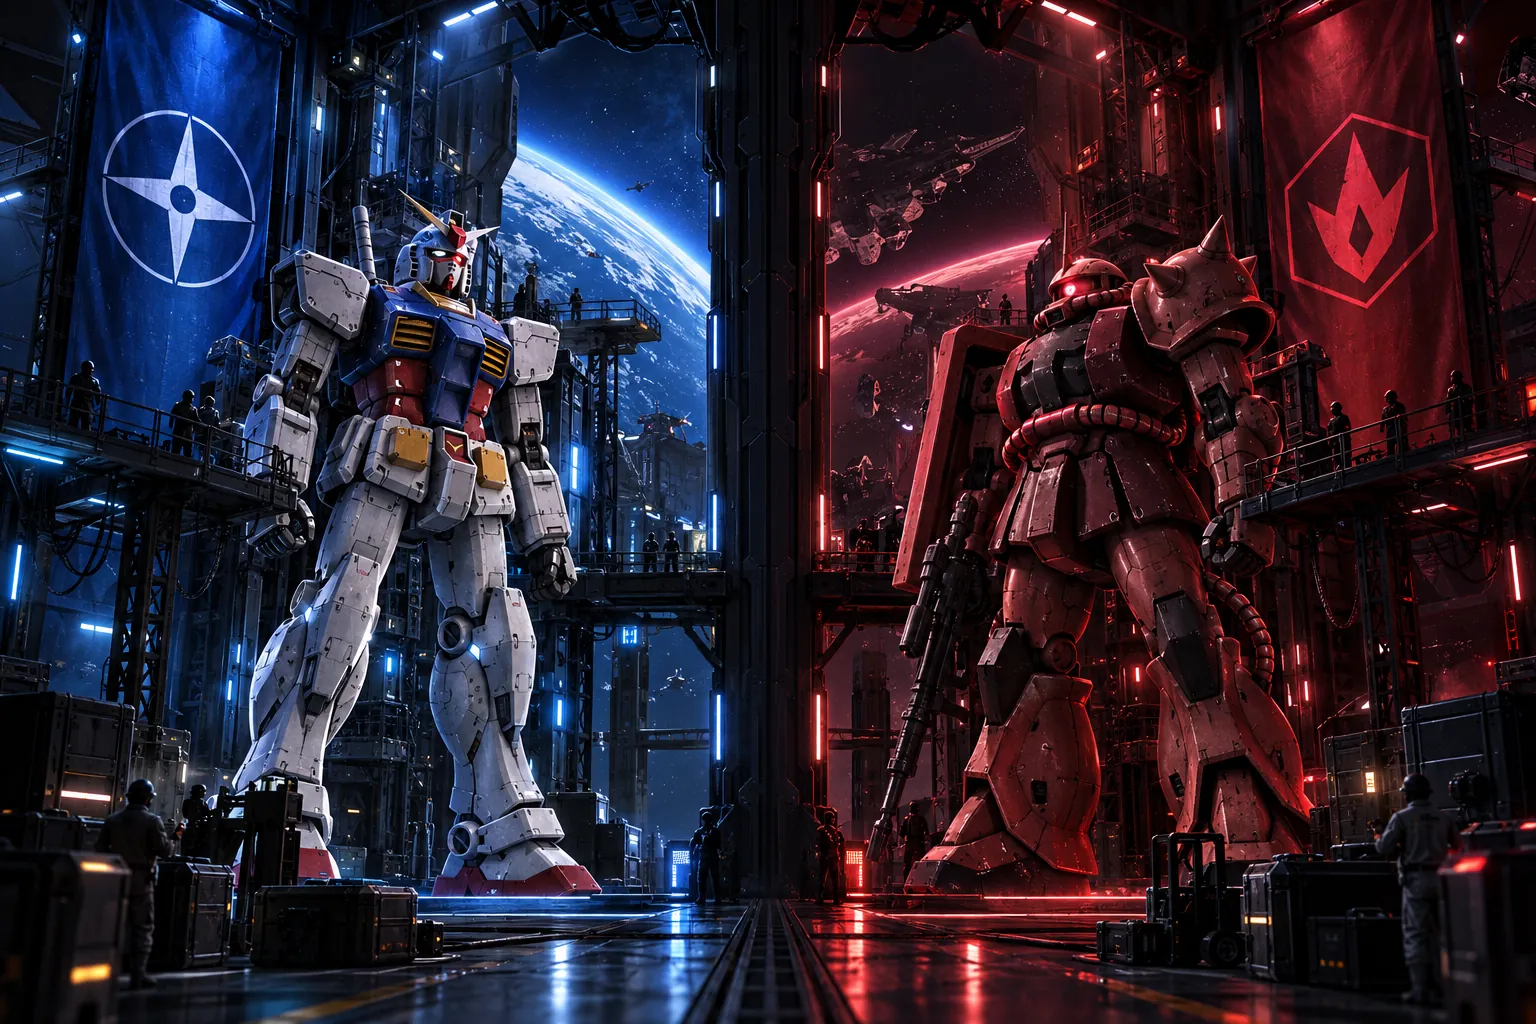
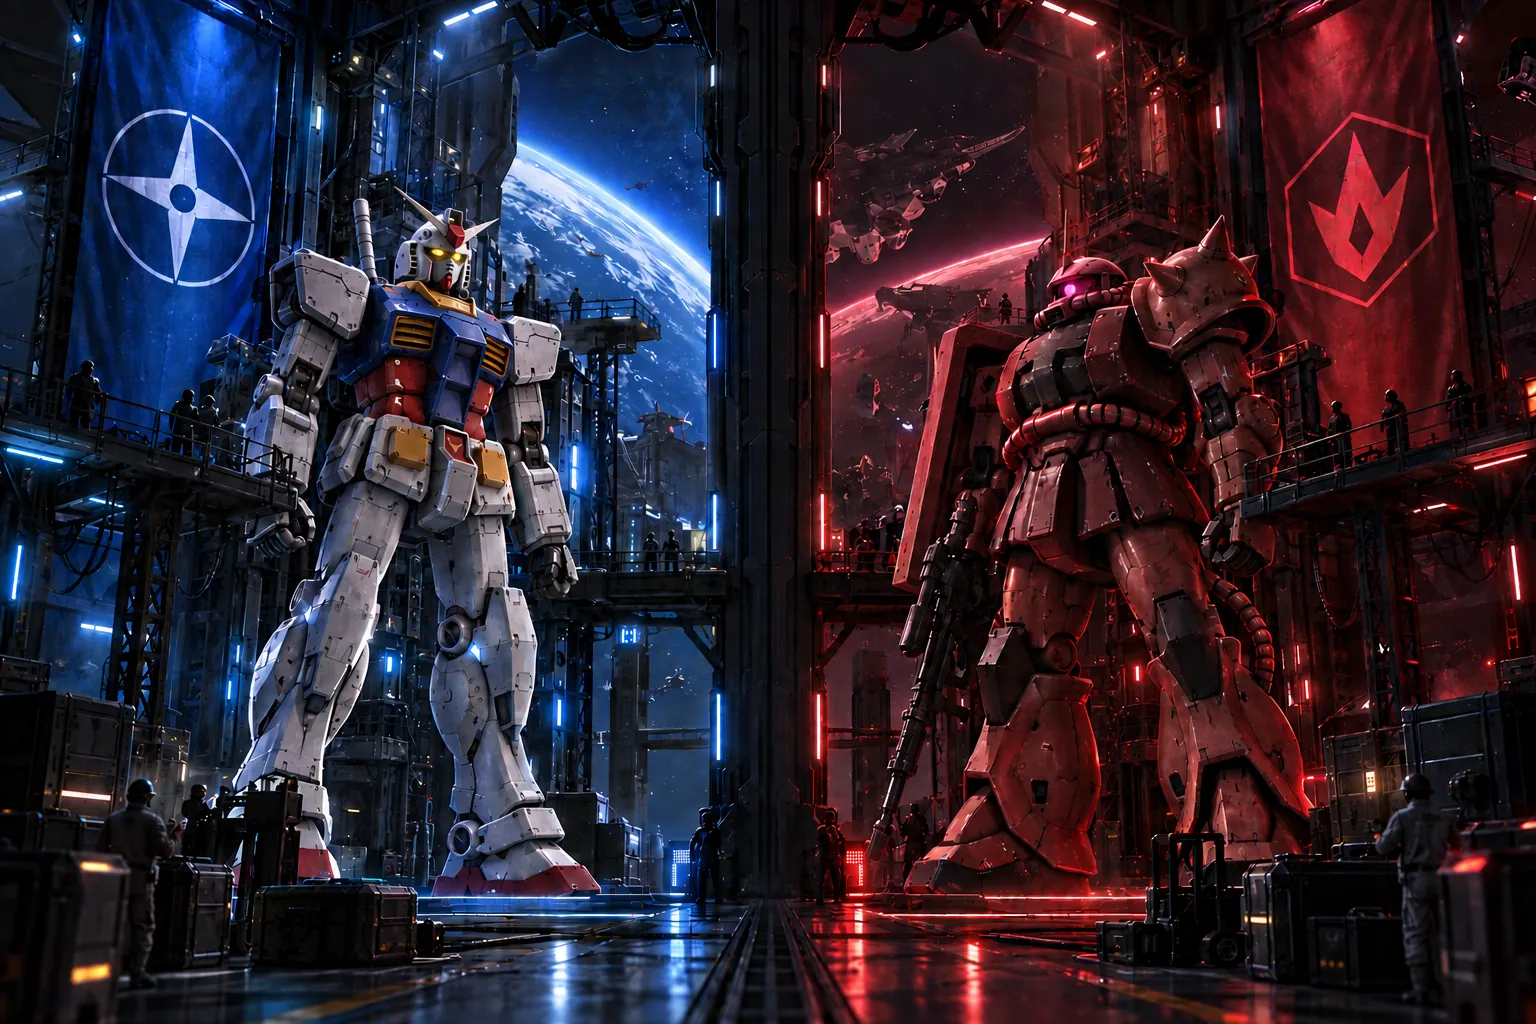
Add files via upload

diff --git a/public/index.html b/public/index.html
@@ -1786,7 +1786,7 @@ body.spa .shipcard.spa .sc-class{color:#e2b04a}
 .lb-team{padding-top:10px}
 
 /* ================= LOBBY ON THE TWO-HANGAR ART (cf18) ================= */
-#mpLobby.lb2wrap{width:100%;max-width:none;min-height:100vh;min-height:100dvh;padding:clamp(10px,2vh,20px) clamp(10px,2vw,28px) clamp(10px,2vh,18px);gap:0;justify-content:space-between}
+#mpLobby.lb2wrap{width:100%;max-width:none;min-height:calc(100vh - 28px);min-height:calc(100dvh - 28px);padding:clamp(10px,2vh,20px) clamp(10px,2vw,28px) clamp(10px,2vh,18px);gap:0;justify-content:space-between}
 .lb2-top{display:flex;flex-direction:column;align-items:center;gap:4px;padding:8px 18px 10px;
   background:radial-gradient(ellipse at center,rgba(2,4,8,.78),rgba(2,4,8,.35) 60%,transparent 75%)}
 .lb2-top .cwstep{font-size:11px;font-weight:900;letter-spacing:.3em;color:#e2e8f0}
@@ -1838,6 +1838,89 @@ body.spa .shipcard.spa .sc-class{color:#e2b04a}
 @media (max-height:520px) and (orientation:landscape){
   .lb2-sides{padding-top:8px;min-height:0}
   .lb2-sides .fcard.lb-card{height:64px}
+}
+
+/* ================= LOBBY PASS 2 (cf19): centred dock, VS pillar, team-pick animation ================= */
+.lb2-sides{padding-top:clamp(6px,3vh,40px)}
+.lb2-top{padding-top:2px;padding-bottom:4px}
+.lb2-dock{padding-top:6px}
+.lb2-ctl{gap:8px}
+.lb2-ctl .lb-chips .chip{padding-left:12px;padding-right:12px}
+.lb2-mid{display:flex;align-items:flex-end;justify-content:center;padding-bottom:clamp(20px,6vh,70px)}
+.lb2-vs{display:flex;align-items:center;gap:clamp(6px,.9vw,12px);padding:8px 14px;background:rgba(2,4,8,.72);border:1px solid rgba(255,255,255,.18);
+  clip-path:polygon(10px 0,calc(100% - 10px) 0,100% 50%,calc(100% - 10px) 100%,10px 100%,0 50%);backdrop-filter:blur(6px);-webkit-backdrop-filter:blur(6px)}
+.lb2-vs b{font:900 clamp(18px,2.6vw,34px)/1 system-ui,sans-serif;letter-spacing:.06em;
+  background:linear-gradient(90deg,#7dd3fc,#fff 50%,#ff6b76);-webkit-background-clip:text;background-clip:text;color:transparent;
+  filter:drop-shadow(0 0 8px rgba(255,255,255,.35));animation:vsPulse 2.4s ease-in-out infinite}
+.lb2-vs span{font:900 clamp(13px,1.5vw,20px)/1 system-ui,sans-serif;min-width:1.2em;text-align:center}
+.lb2-vs .vs-f{color:#7dd3fc;text-shadow:0 0 10px rgba(56,189,248,.8)}
+.lb2-vs .vs-s{color:#ff6b76;text-shadow:0 0 10px rgba(255,77,90,.8)}
+@keyframes vsPulse{0%,100%{filter:drop-shadow(0 0 6px rgba(255,255,255,.25))}50%{filter:drop-shadow(0 0 16px rgba(255,255,255,.6))}}
+/* panels: idle scan line, hover lift, lock-on when picked */
+.lb2-sides .lb-team:before{content:"";position:absolute;left:0;right:0;top:-30%;height:30%;pointer-events:none;z-index:3;
+  background:linear-gradient(180deg,transparent,rgba(255,255,255,.06),transparent);animation:lbScan 5.5s linear infinite}
+.lb2-sides .lb-team.spa:before{animation-delay:-2.7s}
+@keyframes lbScan{from{top:-30%}to{top:130%}}
+.lb2-sides .lb-team:has(.lb-card:not(.nopick)):hover{transform:translateY(-3px)}
+.lb2-sides .lb-team:after{content:"";position:absolute;inset:6px;pointer-events:none;z-index:4;opacity:0;
+  background:
+    linear-gradient(var(--lk),var(--lk)) left top/22px 2px no-repeat,linear-gradient(var(--lk),var(--lk)) left top/2px 22px no-repeat,
+    linear-gradient(var(--lk),var(--lk)) right top/22px 2px no-repeat,linear-gradient(var(--lk),var(--lk)) right top/2px 22px no-repeat,
+    linear-gradient(var(--lk),var(--lk)) left bottom/22px 2px no-repeat,linear-gradient(var(--lk),var(--lk)) left bottom/2px 22px no-repeat,
+    linear-gradient(var(--lk),var(--lk)) right bottom/22px 2px no-repeat,linear-gradient(var(--lk),var(--lk)) right bottom/2px 22px no-repeat}
+.lb2-sides .lb-team.fed{--lk:#7dd3fc}.lb2-sides .lb-team.spa{--lk:#ff6b76}
+.lb2-sides .lb-team.mine:after{opacity:.9}
+.lb2-sides .lb-team.lockon{animation:lockPop .7s cubic-bezier(.2,.9,.3,1.2)}
+.lb2-sides .lb-team.lockon:after{animation:lockIn .6s cubic-bezier(.2,.8,.3,1) both}
+.lb2-sides .lb-team.lockon:before{animation:lbScanFast .7s ease-out 1;background:linear-gradient(180deg,transparent,var(--lk),transparent);opacity:.45}
+@keyframes lockPop{0%{transform:scale(.96)}45%{transform:scale(1.035)}100%{transform:scale(1)}}
+@keyframes lockIn{0%{inset:-18px;opacity:0}60%{opacity:1}100%{inset:6px;opacity:.9}}
+@keyframes lbScanFast{from{top:-30%}to{top:130%}}
+/* the full-screen moment */
+#teamFx{position:fixed;inset:0;z-index:380;pointer-events:none;display:none;overflow:hidden}
+#teamFx.on{display:block}
+#teamFx .tf-sweep{position:absolute;top:0;bottom:0;width:60%;left:-60%;opacity:0}
+#teamFx.fed .tf-sweep{background:linear-gradient(90deg,transparent,rgba(56,189,248,.55),rgba(186,230,253,.9) 55%,transparent);animation:tfSweepR .9s cubic-bezier(.4,0,.2,1) forwards}
+#teamFx.spa .tf-sweep{left:auto;right:-60%;background:linear-gradient(270deg,transparent,rgba(255,77,90,.55),rgba(254,205,211,.9) 55%,transparent);animation:tfSweepL .9s cubic-bezier(.4,0,.2,1) forwards}
+@keyframes tfSweepR{0%{left:-60%;opacity:0}15%{opacity:1}100%{left:110%;opacity:0}}
+@keyframes tfSweepL{0%{right:-60%;opacity:0}15%{opacity:1}100%{right:110%;opacity:0}}
+#teamFx .tf-band{position:absolute;left:0;right:0;top:50%;transform:translateY(-50%);display:flex;flex-direction:column;align-items:center;gap:6px;
+  padding:clamp(14px,3vh,26px) 10px;opacity:0;animation:tfBand 1.8s cubic-bezier(.2,.8,.3,1) .12s forwards}
+#teamFx.fed .tf-band{background:linear-gradient(90deg,transparent,rgba(3,20,40,.88) 20%,rgba(3,20,40,.88) 80%,transparent);border-top:1px solid rgba(56,189,248,.6);border-bottom:1px solid rgba(56,189,248,.6)}
+#teamFx.spa .tf-band{background:linear-gradient(90deg,transparent,rgba(40,3,8,.88) 20%,rgba(40,3,8,.88) 80%,transparent);border-top:1px solid rgba(255,77,90,.6);border-bottom:1px solid rgba(255,77,90,.6)}
+#teamFx .tf-band b{font:900 clamp(34px,7vw,90px)/1 system-ui,sans-serif;letter-spacing:.22em;color:#fff}
+#teamFx.fed .tf-band b{text-shadow:0 0 24px rgba(56,189,248,.9),0 0 60px rgba(56,189,248,.5)}
+#teamFx.spa .tf-band b{text-shadow:0 0 24px rgba(255,77,90,.9),0 0 60px rgba(255,77,90,.5)}
+#teamFx .tf-band span{font:800 clamp(10px,1.3vw,15px) system-ui,sans-serif;letter-spacing:.36em;color:#e2e8f0}
+@keyframes tfBand{0%{opacity:0;transform:translateY(-50%) scaleY(.1) scaleX(1.3);letter-spacing:.6em}
+  18%{opacity:1;transform:translateY(-50%) scaleY(1) scaleX(1)}
+  70%{opacity:1;transform:translateY(-50%) scale(1)}
+  100%{opacity:0;transform:translateY(-50%) scale(1.04)}}
+@media (prefers-reduced-motion:reduce){
+  #teamFx .tf-sweep{display:none}
+  #teamFx .tf-band{animation:tfFade 1.6s ease forwards}
+  @keyframes tfFade{0%,100%{opacity:0}15%,70%{opacity:1}}
+  .lb2-sides .lb-team:before,.lb2-vs b{animation:none}
+  .lb2-sides .lb-team.lockon,.lb2-sides .lb-team.lockon:after{animation:none}
+}
+/* the dock: one centred column */
+.lb2-dock{align-items:center;text-align:center}
+.lb2-ctl{flex-direction:column;align-items:center;flex-wrap:nowrap;gap:10px;width:min(100%,780px);margin:0 auto}
+.lb2-ctl .lb-me{flex:none;width:min(100%,440px);min-width:0;margin:0 auto}
+.lb2-ctl .lb-me .cws{margin:0;padding:10px 14px;background:rgba(2,4,8,.6);border:1px dashed rgba(203,213,225,.35);color:#e2e8f0}
+.lb2-ctl .lb-host{flex:none;width:100%;display:grid;grid-template-columns:3fr 2fr;gap:8px 18px;align-items:start;justify-items:center;padding:10px 16px 12px;
+  border:1px solid var(--acc-line);box-shadow:inset 0 0 0 1px rgba(255,255,255,.04),0 10px 30px rgba(0,0,0,.45)}
+.lb2-ctl .lb-host > .lb-hh,.lb2-ctl .lb-host > .btn,.lb2-ctl .lb-host > .mpmsg,.lb2-ctl .lb-host > p{grid-column:1/-1;margin:0}
+.lb2-ctl .lb-host > .btn{width:min(100%,460px)}
+.lb2-ctl .lb-row{flex-direction:column;justify-content:flex-start;align-items:center;gap:6px;width:100%}
+.lb2-ctl .lb-row > span{font:800 10px system-ui,sans-serif;letter-spacing:.2em;text-transform:uppercase;color:var(--muted)}
+.lb2-ctl .lb-chips{justify-content:center}
+.lb2-dock .lb-un{text-align:center}
+@media (max-width:760px){
+  .lb2-ctl .lb-host{grid-template-columns:1fr}
+  .lb2-mid{display:flex;padding:0}
+  .lb2-sides{grid-template-columns:1fr}
+  .lb2-sides > .lb2-mid{order:0}
 }
 /* ================= MAIN MENU ================= */
 #s1{padding:0;position:relative;min-height:100vh;min-height:100dvh;overflow:hidden;color:#eaf3ff;background:#04060a;
@@ -8909,7 +8992,7 @@ function renderLobby() {
     const emb = document.querySelector(t === "federation" ? "#fcFed .fc-emb" : "#fcSpa .fc-emb");
     const canPick = !mineT && (!battle || (me && !me.team));
     const lead = mp.leaders[t] && mp.data["player/" + mp.leaders[t]];
-    return '<div class="lb-team ' + cls + (mineT ? " mine" : "") + '">' +
+    return '<div class="lb-team ' + cls + (mineT ? " mine" : "") + (mineT && mp.lockUntil > Date.now() ? " lockon" : "") + '">' +
       '<div class="fcard lb-card ' + cls + (mineT ? ' sel' : '') + (canPick ? '' : ' nopick') + '"' + (canPick ? ' onclick="mpPickTeam(\'' + t + '\')"' : '') + '>' +
         '<div class="fc-in">' + (emb ? emb.outerHTML : '') +
           '<div class="fc-txt"><b>' + (t === "federation" ? "FEDERATION" : "SPACENOIDS") + '</b>' +
@@ -8965,13 +9048,30 @@ function renderLobby() {
     '<div class="lb2-top"><div class="cwstep">SESSION</div>' +
       '<div class="mpcode">' + mp.code.split("").map(c => '<span>' + c + '</span>').join("") + '</div>' +
       '<p class="bp-sub">Share this code \u2014 everyone joins with it and picks a side.</p>' + status + msg + '</div>' +
-    '<div class="lb2-sides' + (me && me.team ? ' picked' : '') + '">' + col("federation") + '<div class="lb2-mid" aria-hidden="true"></div>' + col("spacenoid") + '</div>' +
+    '<div class="lb2-sides' + (me && me.team ? ' picked' : '') + '">' + col("federation") + '<div class="lb2-mid" aria-hidden="true"><div class="lb2-vs"><span class="vs-f">' + st.on("federation").length + '</span><b>VS</b><span class="vs-s">' + st.on("spacenoid").length + '</span></div></div>' + col("spacenoid") + '</div>' +
     '<div class="lb2-dock">' + unassigned + '<div class="lb2-ctl">' + controls + '</div>' +
     '<div class="bp-foot lb-foot">' +
       '<button class="btn" onclick="hangarGo(() => show(\'s0\'))">&larr; Main menu</button>' +
       (mpIsHost() ? '<button class="btn enemyturn" onclick="if (confirm(\'End the session for everyone?\')) mpLeave(true)">End session</button>'
                   : '<button class="btn" onclick="if (confirm(\'Leave this session? Your roster on this device stays as it is.\')) mpLeave(false)">Leave session</button>') +
     '</div></div>');
+  const myT = (me && me.team) || null;
+  if (mp.fxTeam !== undefined && myT && myT !== mp.fxTeam && !battle) lobbyTeamFx(myT);
+  mp.fxTeam = myT;
+}
+// the "you joined this side" moment: light sweep from that side, name slam, panel lock-on
+function lobbyTeamFx(t) {
+  const cls = t === "federation" ? "fed" : "spa";
+  mp.lockUntil = Date.now() + 800;                  // kept through the redraws that follow a pick
+  const panel = document.querySelector("#mpLobby .lb-team." + cls);
+  if (panel) { panel.classList.remove("lockon"); void panel.offsetWidth; panel.classList.add("lockon"); }
+  let fx = $("teamFx");
+  if (!fx) { fx = document.createElement("div"); fx.id = "teamFx"; fx.setAttribute("aria-hidden", "true"); document.body.appendChild(fx); }
+  fx.className = "";
+  fx.innerHTML = '<div class="tf-sweep"></div><div class="tf-band"><b>' + (t === "federation" ? "FEDERATION" : "SPACENOIDS") + '</b><span>SIDE JOINED \u2014 WELCOME, PILOT</span></div>';
+  void fx.offsetWidth;
+  fx.className = "on " + cls;
+  clearTimeout(fx._t); fx._t = setTimeout(() => { fx.className = ""; }, 1900);
 }
 
 // ---------- rendering on the roster / sheet ----------
@@ -11233,7 +11333,7 @@ function draw() {
   }
 }
 
-const APP_BUILD = "cf18";
+const APP_BUILD = "cf19";
 if ($("buildTag")) $("buildTag").textContent = APP_BUILD;
 if ($("buildTag0")) $("buildTag0").textContent = APP_BUILD;
 

diff --git a/public/sw.js b/public/sw.js
@@ -1,4 +1,4 @@
-const C="gbcf-cf18";
+const C="gbcf-cf19";
 const FILES=["./","index.html","manifest.json",
  "img/mech-gundam.webp","img/ship-musai.webp","img/portraits/ship-musai.webp","img/portraits/ship-salamis.webp","img/portraits/ship-rewloola.webp","img/portraits/ship-racailum.webp","img/ship-salamis.webp","img/ship-rewloola.webp","img/ship-racailum.webp","img/mech-sazabi.webp","img/mech-zaku.webp","img/mech-gm.webp",
  "img/menu-bg.webp","img/lobby-bg.webp","img/menu-fed.webp","img/menu-spa.webp","img/bg-fed.webp","img/bg-spa.webp",

diff --git a/README_CLOUDFLARE.md b/README_CLOUDFLARE.md
@@ -1,4 +1,4 @@
-# Gunpla Battle — Cloudflare version (build cf18)
+# Gunpla Battle — Cloudflare version (build cf19)
 
 This is the full app (solo tracker + team multiplayer). It runs on **Cloudflare Workers**, with a **Durable Object "room" per battle session**.
 
@@ -86,3 +86,4 @@ public/            the app (index.html, images, service worker)
 | cf16 | `public/index.html`, `public/sw.js` | **Bridge HIT button** beside the Bridge ring (one tap per attack: −2 crew, −3 next turn; ↶ undo; pulses amber when the Bridge lost HP but no hit is recorded) — the ring now only changes HP. **# chip** on the damage bar to type any amount (e.g. 14), on every sheet |
 | cf17 | `public/index.html`, `public/sw.js` | **New landing page**: PLAY ONLINE (top, recommended, shows a live session) / PLAY OFFLINE (→ faction menu); hangar doors on every menu route; lobby teams headed by the faction cards (tap to join); offline menu's Multiplayer shortcut → Main menu |
 | cf18 | `public/index.html`, `public/sw.js`, **new** `public/img/lobby-bg.webp` | **Lobby on the two-hangar art**: Federation panel on the blue half, Spacenoid on the red half (tap to join), your side lit / the other dimmed, session code on the centre pillar, controls in a bottom dock; sign-in on a glass panel; phone layouts |
+| cf19 | `public/index.html`, `public/sw.js`, `public/img/lobby-bg.webp` (updated art) | Lobby pass 2: everything centred (Ready, host settings, Start, buttons), VS pillar with player counts, **team-pick animation** (side light sweep, name banner, panel lock-on brackets), idle scan lines, fits the screen without scrolling |
